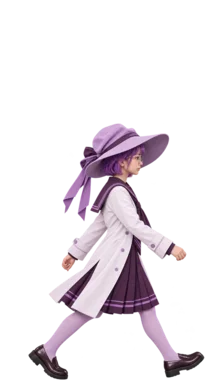
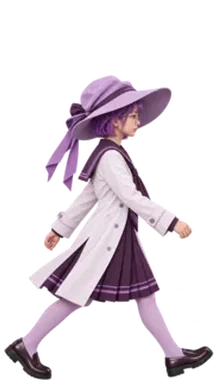
歩行: 欠けていた右斜め18コマを左斜めの反転で追加、C004中学生 right-3 の大きさを補正 (#204)

Changed region(s): [[0.0, 0.1728, 0.9908, 1.0]]

diff --git a/docs/ledger/views/content.md b/docs/ledger/views/content.md
@@ -766,7 +766,7 @@ uv run python3 scripts/content_ledger_views.py build で更新する。
 | FORM-070 | C048 | elderly | 冬の私服 | いいえ | assets/images/characters/shared/npc-master-candidates/C048-elderly-master.webp | 採用（2026-11-02 kako-jun 判断） | https://github.com/kako-jun/sit-by-me/issues/180; 採用: https://github.com/kako-jun/sit-by-me/issues/180#issuecomment-6571980362 |
 | FORM-071 | C049 | elderly | 冬の私服 | いいえ | assets/images/characters/shared/npc-master-candidates/C049-elderly-master.webp | 採用（2026-11-02 kako-jun 判断） | https://github.com/kako-jun/sit-by-me/issues/180; 採用: https://github.com/kako-jun/sit-by-me/issues/180#issuecomment-6571980362 |
 
-### 素材 (1306件)
+### 素材 (1324件)
 
 正本: [素材.yaml](../素材.yaml)
 
@@ -2069,7 +2069,7 @@ uv run python3 scripts/content_ledger_views.py build で更新する。
 | A-1295 | C004 | characters | assets/images/characters/C004/walk/C004-teen-walk-left-3.webp | 採用 | 2026-10-30 | 歩行スプライト正本に採用（kako-jun 指示 2026-11-03、Issue #204）。旧パス assets/images/characters/shared/direction-candidates/C004-teen-left-3-resume.webp（候補名 resume）。選択理由: 同一コマの候補はこの1版のみ。 | c0544d10db8b06552cab46382605e4b8f65acca7e99e71ee8d02285fb34c263e |  |
 | A-1296 | C004 | characters | assets/images/characters/C004/walk/C004-teen-walk-right-1.webp | 採用 | 2026-10-30 | 歩行スプライト正本に採用（kako-jun 指示 2026-11-03、Issue #204）。旧パス assets/images/characters/shared/direction-candidates/C004-teen-right-1-resume.webp（候補名 resume）。選択理由: 同一コマの候補はこの1版のみ。 | 858a7a77e250c2bc7210841674bc7d1a1b2cb634800ef7d7014c055d4c4d79f1 |  |
 | A-1297 | C004 | characters | assets/images/characters/C004/walk/C004-teen-walk-right-2.webp | 採用 | 2026-10-30 | 歩行スプライト正本に採用（kako-jun 指示 2026-11-03、Issue #204）。旧パス assets/images/characters/shared/direction-candidates/C004-teen-right-2-resume.webp（候補名 resume）。選択理由: 同一コマの候補はこの1版のみ。 | f2d48c615238dee5654337766eae103bf4de8600ca62a8ccc2c998380c93c275 |  |
-| A-1298 | C004 | characters | assets/images/characters/C004/walk/C004-teen-walk-right-3.webp | 採用 | 2026-10-30 | 歩行スプライト正本に採用（kako-jun 指示 2026-11-03、Issue #204）。旧パス assets/images/characters/shared/direction-candidates/C004-teen-right-3-resume.webp（候補名 resume）。選択理由: 同一コマの候補はこの1版のみ。 | bfcfcd1ca92733bef0a8678d51a126759cb3d702b9a5a7fd634c860f8e9eaecd |  |
+| A-1298 | C004 | characters | assets/images/characters/C004/walk/C004-teen-walk-right-3.webp | 採用 | 2026-10-30 | 歩行スプライト正本に採用（kako-jun 指示 2026-11-03、Issue #204）。旧パス assets/images/characters/shared/direction-candidates/C004-teen-right-3-resume.webp（候補名 resume）。選択理由: 同一コマの候補はこの1版のみ。 2026-11-03 Issue #204: 他コマより小さい（bbox高さ257、セット中央値328の0.78倍）ため縦横比保持の等方拡大（x1.186、キャンバス幅218に収まる上限。高さ305）・足元下端y=380維持・共通キャンバス218x382維持で補正。 | 07053cbafc9f3f9662fa6d793cb923d3ea4ffd89c22198d7bc49a7be8228eec5 |  |
 | A-1299 | C004 | characters | assets/images/characters/C004/walk/C004-teen-walk-up-1.webp | 採用 | 2026-10-30 | 歩行スプライト正本に採用（kako-jun 指示 2026-11-03、Issue #204）。旧パス assets/images/characters/shared/direction-candidates/C004-teen-up-1-resume.webp（候補名 resume）。選択理由: 同一コマの候補はこの1版のみ。 | d07992d13c80b924f3f1c3e8a2c935cae291d22bc94cd8ede769e02ed190c37d |  |
 | A-1300 | C004 | characters | assets/images/characters/C004/walk/C004-teen-walk-up-2.webp | 採用 | 2026-10-30 | 歩行スプライト正本に採用（kako-jun 指示 2026-11-03、Issue #204）。旧パス assets/images/characters/shared/direction-candidates/C004-teen-up-2-resume.webp（候補名 resume）。選択理由: 同一コマの候補はこの1版のみ。 | 3dba3b9427ca229eeeb70e0a74ab564603f97fe4c69ea70de3bb151e9ef3d2a8 |  |
 | A-1301 | C004 | characters | assets/images/characters/C004/walk/C004-teen-walk-up-3.webp | 採用 | 2026-10-30 | 歩行スプライト正本に採用（kako-jun 指示 2026-11-03、Issue #204）。旧パス assets/images/characters/shared/direction-candidates/C004-teen-up-3-resume-trial.webp（候補名 resume-trial）。選択理由: 同一コマの候補はこの1版のみ。 | 1d8facaa339dcc8172b1b79cb641056925bc7365ac70c1eb3b68542be5cbb639 |  |
@@ -2078,6 +2078,24 @@ uv run python3 scripts/content_ledger_views.py build で更新する。
 | A-1304 | C004 | 人物ポーズ候補 | assets/images/characters/shared/direction-candidates/C004-teen-upleft-3-resume-v2.webp | 候補 | 2026-10-30 | 不採用（同一コマに採用版あり: C004-teen-upleft-3-resume-v3.webp → 正本 assets/images/characters/C004/walk/C004-teen-walk-upleft-3.webp）。歩行方向候補として元の場所に残置。2026-11-03 Issue #204 | 9db7f3c7c4df53567d98f38d59499e46f5223b05ba6a1336ec1b8ac37ddce972 |  |
 | A-1305 | C004 | characters | assets/images/characters/C004/walk/C004-teen-walk-upleft-3.webp | 採用 | 2026-10-30 | 歩行スプライト正本に採用（kako-jun 指示 2026-11-03、Issue #204）。旧パス assets/images/characters/shared/direction-candidates/C004-teen-upleft-3-resume-v3.webp（候補名 resume-v3）。選択理由: 標準サフィックス(method-pilot/resume)のうち版番号が最大。同一コマの他版（不採用・元の場所に残置）: resume-v2。 | a51756373e49d6e0b3e696a5d012528f11c4b78c49d3ac8038cbcb1437b8ce54 |  |
 | A-1306 | TRM-12 | 背景(没) |  | 没 | 2026-11-02 | TRM-12 の初回4テイクは没（和風の寺流用で団地でない。2026-11-02。kako-jun「TRM12はまったくだめだ」Issue #191 https://github.com/kako-jun/sit-by-me/issues/191#issuecomment-6567010844）。e2 の take1〜4・overlay・metrics・ログ・prompt を削除済み。 |  |  |
+| A-1307 | C003 | characters | assets/images/characters/C003/walk/C003-adult-walk-downright-1.webp | 採用 | 2026-11-03 | 歩行スプライト正本。左の反転（同形態・同番号の assets/images/characters/C003/walk/C003-adult-walk-downleft-1.webp をPILで水平反転。描き直しなし。元と同寸法242x366・alpha・下端一致を確認。assets-policy「斜めの左向きは右向きの反転でよい」の対称運用）。Issue #204 | db45eb8db2509a394aab58354d6441604bdc732396920f8038914e47c011f080 |  |
+| A-1308 | C003 | characters | assets/images/characters/C003/walk/C003-adult-walk-downright-2.webp | 採用 | 2026-11-03 | 歩行スプライト正本。左の反転（同形態・同番号の assets/images/characters/C003/walk/C003-adult-walk-downleft-2.webp をPILで水平反転。描き直しなし。元と同寸法242x366・alpha・下端一致を確認。assets-policy「斜めの左向きは右向きの反転でよい」の対称運用）。Issue #204 | 7c9f0089fada6363323488f1ac470f1e01356c4b217cfbf15794d2b382dc1597 |  |
+| A-1309 | C003 | characters | assets/images/characters/C003/walk/C003-adult-walk-downright-3.webp | 採用 | 2026-11-03 | 歩行スプライト正本。左の反転（同形態・同番号の assets/images/characters/C003/walk/C003-adult-walk-downleft-3.webp をPILで水平反転。描き直しなし。元と同寸法242x366・alpha・下端一致を確認。assets-policy「斜めの左向きは右向きの反転でよい」の対称運用）。Issue #204 | 357d1c7113e1304e772ba25636482fe18c3662e897676b1d1de1f7463a202e69 |  |
+| A-1310 | C003 | characters | assets/images/characters/C003/walk/C003-adult-walk-upright-1.webp | 採用 | 2026-11-03 | 歩行スプライト正本。左の反転（同形態・同番号の assets/images/characters/C003/walk/C003-adult-walk-upleft-1.webp をPILで水平反転。描き直しなし。元と同寸法242x366・alpha・下端一致を確認。assets-policy「斜めの左向きは右向きの反転でよい」の対称運用）。Issue #204 | 2649067947dc84e0fec18d16ed5e8ea62a2ce77e14a8a9f4adfe54fdd4475c0e |  |
+| A-1311 | C003 | characters | assets/images/characters/C003/walk/C003-adult-walk-upright-2.webp | 採用 | 2026-11-03 | 歩行スプライト正本。左の反転（同形態・同番号の assets/images/characters/C003/walk/C003-adult-walk-upleft-2.webp をPILで水平反転。描き直しなし。元と同寸法242x366・alpha・下端一致を確認。assets-policy「斜めの左向きは右向きの反転でよい」の対称運用）。Issue #204 | 46e47c221881c1066660b7224be129d6756e554e3ed1a0158e14d5d3d264556b |  |
+| A-1312 | C003 | characters | assets/images/characters/C003/walk/C003-adult-walk-upright-3.webp | 採用 | 2026-11-03 | 歩行スプライト正本。左の反転（同形態・同番号の assets/images/characters/C003/walk/C003-adult-walk-upleft-3.webp をPILで水平反転。描き直しなし。元と同寸法242x366・alpha・下端一致を確認。assets-policy「斜めの左向きは右向きの反転でよい」の対称運用）。Issue #204 | 46eeeda3ed42a0943d9591cc8c781428e0de6ec9e75b75fb237af8c41f354975 |  |
+| A-1313 | C003 | characters | assets/images/characters/C003/walk/C003-teen-walk-downright-1.webp | 採用 | 2026-11-03 | 歩行スプライト正本。左の反転（同形態・同番号の assets/images/characters/C003/walk/C003-teen-walk-downleft-1.webp をPILで水平反転。描き直しなし。元と同寸法242x366・alpha・下端一致を確認。assets-policy「斜めの左向きは右向きの反転でよい」の対称運用）。Issue #204 | fd23195abd54483317402b2249d3446f62174fe5ae84dec4fd14a565fedc4bb0 |  |
+| A-1314 | C003 | characters | assets/images/characters/C003/walk/C003-teen-walk-downright-2.webp | 採用 | 2026-11-03 | 歩行スプライト正本。左の反転（同形態・同番号の assets/images/characters/C003/walk/C003-teen-walk-downleft-2.webp をPILで水平反転。描き直しなし。元と同寸法242x366・alpha・下端一致を確認。assets-policy「斜めの左向きは右向きの反転でよい」の対称運用）。Issue #204 | f21583cdbc00175e7920223b3c988e919851788416ad25590bebd280c87b4a18 |  |
+| A-1315 | C003 | characters | assets/images/characters/C003/walk/C003-teen-walk-downright-3.webp | 採用 | 2026-11-03 | 歩行スプライト正本。左の反転（同形態・同番号の assets/images/characters/C003/walk/C003-teen-walk-downleft-3.webp をPILで水平反転。描き直しなし。元と同寸法242x366・alpha・下端一致を確認。assets-policy「斜めの左向きは右向きの反転でよい」の対称運用）。Issue #204 | bb55f71a16bc91881d35dc10c2fb54291f121f825e2b58e717fd18585f7dc560 |  |
+| A-1316 | C003 | characters | assets/images/characters/C003/walk/C003-teen-walk-upright-1.webp | 採用 | 2026-11-03 | 歩行スプライト正本。左の反転（同形態・同番号の assets/images/characters/C003/walk/C003-teen-walk-upleft-1.webp をPILで水平反転。描き直しなし。元と同寸法242x366・alpha・下端一致を確認。assets-policy「斜めの左向きは右向きの反転でよい」の対称運用）。Issue #204 | a5d6183b706225ca3e8481f470b36789dbff25001ac8377d657561a63675dc48 |  |
+| A-1317 | C003 | characters | assets/images/characters/C003/walk/C003-teen-walk-upright-2.webp | 採用 | 2026-11-03 | 歩行スプライト正本。左の反転（同形態・同番号の assets/images/characters/C003/walk/C003-teen-walk-upleft-2.webp をPILで水平反転。描き直しなし。元と同寸法242x366・alpha・下端一致を確認。assets-policy「斜めの左向きは右向きの反転でよい」の対称運用）。Issue #204 | 21d3d3d6716e062240eca078bb5e8b2c9a11e05634f266086bbfde899ebfd919 |  |
+| A-1318 | C003 | characters | assets/images/characters/C003/walk/C003-teen-walk-upright-3.webp | 採用 | 2026-11-03 | 歩行スプライト正本。左の反転（同形態・同番号の assets/images/characters/C003/walk/C003-teen-walk-upleft-3.webp をPILで水平反転。描き直しなし。元と同寸法242x366・alpha・下端一致を確認。assets-policy「斜めの左向きは右向きの反転でよい」の対称運用）。Issue #204 | c33fa9e67c62b716ba35b14bd81591ce13a9453cf899a773278d1cc81f116987 |  |
+| A-1319 | C004 | characters | assets/images/characters/C004/walk/C004-teen-walk-downright-1.webp | 採用 | 2026-11-03 | 歩行スプライト正本。左の反転（同形態・同番号の assets/images/characters/C004/walk/C004-teen-walk-downleft-1.webp をPILで水平反転。描き直しなし。元と同寸法218x382・alpha・下端一致を確認。assets-policy「斜めの左向きは右向きの反転でよい」の対称運用）。Issue #204 | c154e4ecc721299029fc026f8f546e96a9bf04fb43389f9a1d4405b1c282886f |  |
+| A-1320 | C004 | characters | assets/images/characters/C004/walk/C004-teen-walk-downright-2.webp | 採用 | 2026-11-03 | 歩行スプライト正本。左の反転（同形態・同番号の assets/images/characters/C004/walk/C004-teen-walk-downleft-2.webp をPILで水平反転。描き直しなし。元と同寸法218x382・alpha・下端一致を確認。assets-policy「斜めの左向きは右向きの反転でよい」の対称運用）。Issue #204 | 096278ed7e00fe1779c50e86ecefe3cb561b84f16816f1b4c15675f87d4023e2 |  |
+| A-1321 | C004 | characters | assets/images/characters/C004/walk/C004-teen-walk-downright-3.webp | 採用 | 2026-11-03 | 歩行スプライト正本。左の反転（同形態・同番号の assets/images/characters/C004/walk/C004-teen-walk-downleft-3.webp をPILで水平反転。描き直しなし。元と同寸法218x382・alpha・下端一致を確認。assets-policy「斜めの左向きは右向きの反転でよい」の対称運用）。Issue #204 | 25d70b1c9fe077bac43211643fefb2ed4edc7ee0734a5f522c2aecf255743ff8 |  |
+| A-1322 | C004 | characters | assets/images/characters/C004/walk/C004-teen-walk-upright-1.webp | 採用 | 2026-11-03 | 歩行スプライト正本。左の反転（同形態・同番号の assets/images/characters/C004/walk/C004-teen-walk-upleft-1.webp をPILで水平反転。描き直しなし。元と同寸法218x382・alpha・下端一致を確認。assets-policy「斜めの左向きは右向きの反転でよい」の対称運用）。Issue #204 | 770e64927c0ba073112b586a701a54b65133f33f3a5999e9f634edb455e3d16c |  |
+| A-1323 | C004 | characters | assets/images/characters/C004/walk/C004-teen-walk-upright-2.webp | 採用 | 2026-11-03 | 歩行スプライト正本。左の反転（同形態・同番号の assets/images/characters/C004/walk/C004-teen-walk-upleft-2.webp をPILで水平反転。描き直しなし。元と同寸法218x382・alpha・下端一致を確認。assets-policy「斜めの左向きは右向きの反転でよい」の対称運用）。Issue #204 | ffd372ca30c42beb5b461a35774c6be2f19ac3127085c6b47e54fb0099e5a2d9 |  |
+| A-1324 | C004 | characters | assets/images/characters/C004/walk/C004-teen-walk-upright-3.webp | 採用 | 2026-11-03 | 歩行スプライト正本。左の反転（同形態・同番号の assets/images/characters/C004/walk/C004-teen-walk-upleft-3.webp をPILで水平反転。描き直しなし。元と同寸法218x382・alpha・下端一致を確認。assets-policy「斜めの左向きは右向きの反転でよい」の対称運用）。Issue #204 | b6d2c493825bf5771b56e98b537a42f41228316f950ccd4647e15f070a3a9380 |  |
 
 ### 素材移行 (712件)
 

diff --git a/docs/assets-policy.md b/docs/assets-policy.md
@@ -67,7 +67,7 @@
 - 斜め歩きのカメラは人物の向きから独立させる。俯瞰にずれた斜め画像は採用せず、ユーザー指定があれば子どもの目線・水平0°のカメラで、人物だけを地面上で45°回す（2026-10-24）。同方向1×3で頭身・ヨーを合わせ、位相が重なった場合は通過位相の中央コマをカメラ/ヨー/画面内サイズの土台、同年齢・同番号の正面/背面コマを歩行位相、年齢マスターを人物・衣装の正本として個別編集する。個別編集ではframe1とframe3が同じ接地歩幅へ収束しやすいため、3コマを最終キャンバスで比較する。frame3がframe1を反復したら、同年齢・同番号ソースを位相正本にして脚だけ修正する。4×3グリッドと方向別1×3ストリップでヨーまたは位相が2コマ続けて崩れた場合は、採用済みの同方向土台・同番号位相ソース・年齢masterを使う1枚ずつの生成へ切り替える。脚だけの修正でヨーが正面へ戻った場合は、脚の位相を固定して頭・首・胴だけヨーを戻す。位相はrawだけでなく最終サイズの白/暗色合成で判定し、特に後ろ斜めでは縮小後の靴間隔で通過位相がストライドに見えないか確認する。靴底が見える脚は画面左右でなく参照の解剖学的左右と支持脚で指定する。alpha=0画素のRGBはプレビューで黒く見える場合があるため、alpha>5 bboxと白/暗色合成で可視背景を判定する。Issue #155でC001幼稚園・小学生通常歩行の斜め12枚ずつが完了。
 - 複数参照の個別編集では全身のヨー土台と位相見本を明示的にファイル指定し、会話中の直近画像や脚部クロップを全身の編集元として誤用しない。各画像の役割をプロンプトに割り当て、生成直後に全身・画風・向きが保たれたか確認する。frame3の接地位相がframe1と似る場合、正本が両足接地なら後ろ足の踵も接地させて靴底を見せず、frame1の上がった踵・frame2の脚の交差と明確に区別する。参照位相への一致とコマ間の区別は別々にレビューする。
 - フィールドの歩き: 幼稚園期（スノーボードウェア）は `assets/images/characters/Cxxx/walk/Cxxx-walk-{dir}-{1,2,3}.webp`（`dir`: `down`, `left`, `right`, `up`, `downleft`, `downright`, `upleft`, `upright`）、小学生は `Cxxx-elementary-walk-{dir}-{1,2,3}.webp`。戦闘ポーズの小学生版は `poses/Cxxx-elementary-{pose}.webp`。事故後の主人公（オットン/ナム）の車椅子歩きは小学生・中学生・青年・壮年それぞれ `Cxxx-{elementary,teen,adult,midlife}-wheelchair-walk-{dir}-{1,2,3}.webp`。C001の4段階は各8方向×3コマを揃えた。各方向3コマは仮の仕様で、name-name のフィールド移動の仕様が決まったら合わせる。
-- 歩行スプライトの採用状態（2026-11-03・Issue #204）: `shared/direction-candidates/` にあった歩行候補は、各コマの1版を `Cxxx/walk/Cxxx[-年齢]-walk-{dir}-{1,2,3}.webp`（幼稚園は年齢省略）へ全て取り込み済み（C003/C004 の幼稚園・小学生の斜め4方向、中学生、青年。計126コマ）。採用は品質の保証でなく、品質の総点検と直しは別作業。同一コマに複数版があるときは標準サフィックス（`method-pilot`/`resume`）のうち版番号が最大を採る（C004 青年だけは最終サイズ一括正規化の `norm-v1` 24コマを一括採用）。選択理由と不採用版は素材台帳（`docs/ledger/素材.yaml`）の各行の来歴が正本。不採用の別版・レビュー用画像は `direction-candidates/` に残す。今後この置き場に新しい候補を足す場合も、採用したら同じ手順で正本へ移す。実ファイルが無く反転で代用している方向（C003 中学生・青年、C004 中学生の downright/upright）は、`scripts/walk_viewer.py` が左向きの反転として表示する。C003/C004 の壮年は作らない。
+- 歩行スプライトの採用状態（2026-11-03・Issue #204）: `shared/direction-candidates/` にあった歩行候補は、各コマの1版を `Cxxx/walk/Cxxx[-年齢]-walk-{dir}-{1,2,3}.webp`（幼稚園は年齢省略）へ全て取り込み済み（C003/C004 の幼稚園・小学生の斜め4方向、中学生、青年。計126コマ）。採用は品質の保証でなく、品質の総点検と直しは別作業。同一コマに複数版があるときは標準サフィックス（`method-pilot`/`resume`）のうち版番号が最大を採る（C004 青年だけは最終サイズ一括正規化の `norm-v1` 24コマを一括採用）。選択理由と不採用版は素材台帳（`docs/ledger/素材.yaml`）の各行の来歴が正本。不採用の別版・レビュー用画像は `direction-candidates/` に残す。今後この置き場に新しい候補を足す場合も、採用したら同じ手順で正本へ移す。C003 中学生・青年、C004 中学生の downright/upright は、同形態・同番号の downleft/upleft をPILで水平反転した実ファイル（2026-11-03・Issue #204、計18コマ）を正本に置いた。コマ間の大きさのずれ（alpha>=8 の bbox 高さがセット中央値から±12%超）は全人物・全形態で点検し、C004 中学生 right-3 だけ等方拡大で補正した（C003 中学生 upleft/upright-1 は歩幅が大きい自然な差で頭の大きさは揃っているため見送り）。C003/C004 の壮年は作らない。
 - AI の定番見た目だった旧テンプレ絵（成長シート・車椅子シート・方向確認サンプル）は 2026-10-14 に撤去した。
 
 ### 戦闘人物と刀の合成

diff --git a/docs/INDEX.md b/docs/INDEX.md
@@ -91,7 +91,7 @@
 | [語彙](ledger/語彙.yaml) | 170 | 許す・禁じる語彙と英語プロンプト断片。 | 語彙ID / グループ / 値 / 英語断片 / 説明 |
 | [決定](ledger/決定.yaml) | 635 | kako-jun の決定（逐語・出典つき）。status に関係なくプロンプトへ入る。 | 決定ID / 日付 / 対象種別 / 対象ID / 対象名 / 決定の要点 / 逐語 / 出典 / 出典URL / 状態 / 置換先 / プロンプト出力 / 必須語 / 禁止語 / 対象MAP / 備考 / 特徴(自由記述) |
 | [採用要素](ledger/採用要素.yaml) | 6 | 採用画像から次の絵へ継承する要素。 | 採用要素ID / 素材ID / 元MAP / 要素 / 内容 / 継承先MAP / 継承方法 / 状態 / 確認語 / 決定参照 / 特徴(自由記述) |
-| [素材](ledger/素材.yaml) | 1306 | 素材（画像・マスクなど。没も行で保持）。 | 素材ID / 所有者ID / 種別 / パス / 状態 / 日付 / 来歴 / sha256 / 特徴(自由記述) |
+| [素材](ledger/素材.yaml) | 1324 | 素材（画像・マスクなど。没も行で保持）。 | 素材ID / 所有者ID / 種別 / パス / 状態 / 日付 / 来歴 / sha256 / 特徴(自由記述) |
 | [素材共有](ledger/素材共有.yaml) | 3 | 所有者以外の人物・敵・召喚獣が同一素材を利用する明示的な関係。素材行を複製せず、出典を保持する。 | 共有ID / 利用者ID / 素材ID / 根拠 |
 | [素材更新](ledger/素材更新.yaml) | 143 | 元の素材移行SHAを保持したまま後続の上流更新を記録するSHA連鎖。出典commitと出典パスを必須とする。 | 更新ID / 素材ID / パス / 旧sha256 / 新sha256 / 出典commit / 出典パス / 根拠 |
 | [素材メタデータ](ledger/素材メタデータ.yaml) | 7 | 上流の画像用JSONを安全化してYAML正本に変換した出典とハッシュ。原文の秘匿値は保持しない。 | メタデータID / パス / 所有者ID / 原文sha256 / 安全化sha256 / 出典commit / 安全化方針 |
